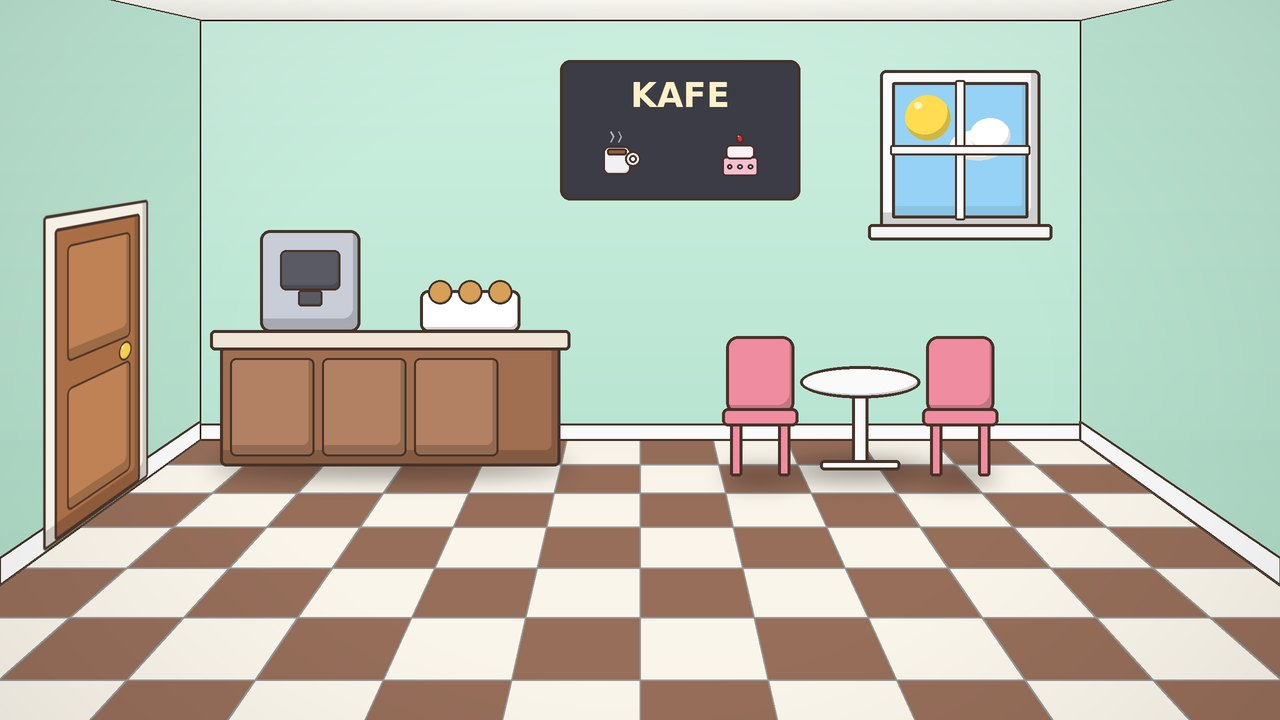
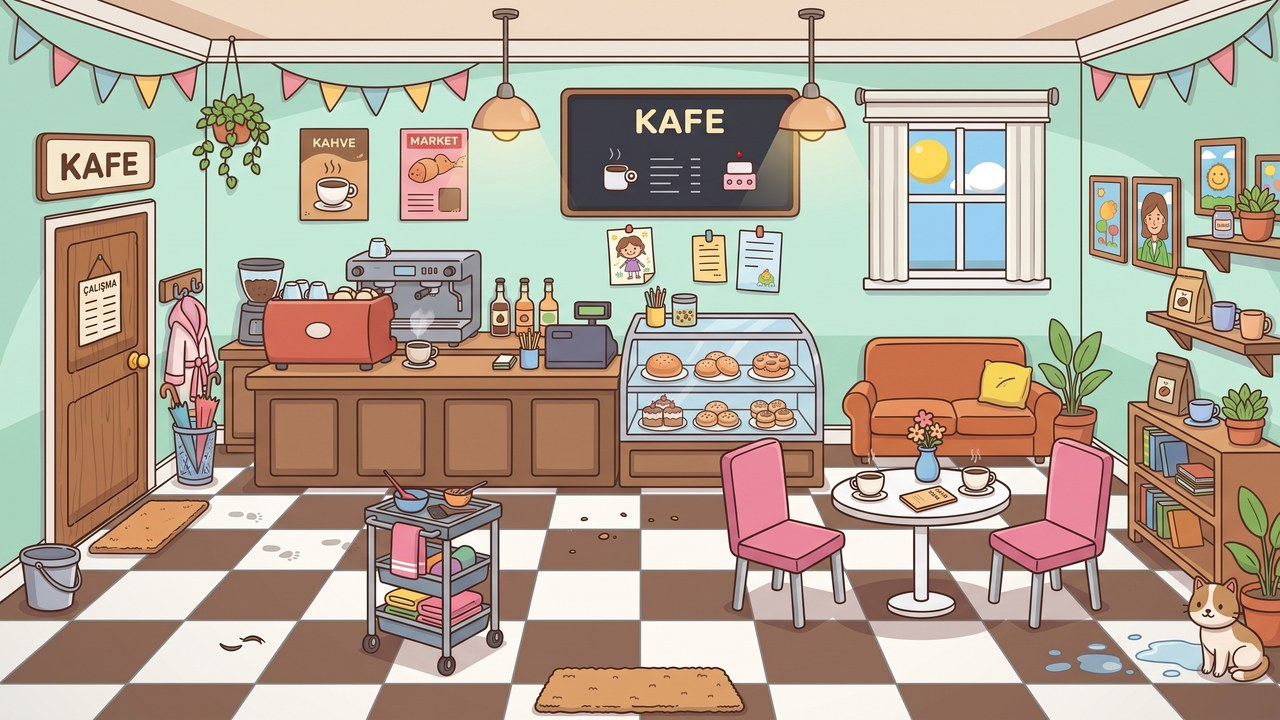
Kafe: yeni resim, kahve makinesi, pasta vitrini, yuvarlak masa, iki sandalye ve kanepe
Claude-Session: https://claude.ai/code/session_01FSkVF6b9FMUcpnurV8yuFZ

diff --git a/js/veri.js b/js/veri.js
@@ -434,17 +434,31 @@ window.OYUN_VERI = {
     },
     kafe: {
       ad: "Kafe", simge: "kafe",
-      resim: "cizimler/mekan/kafe.jpg", zemin: ZEMIN, giris: GIRIS_SOL,
-      kapilar: [{ ...KAPI_SOL, hedef: "dunya", yer: "kafe" }],
+      resim: "cizimler/mekan/kafe.jpg",
+      zemin: { ust: 490, alt: 705, sol: 30, sag: 1250, ufuk: { x: 640, y: 190 }, arka: { sol: 205, sag: 1090, y: 470 } },
+      giris: { x: 240, y: 600 },
+      kapilar: [{ x: 45, y: 200, w: 112, h: 345, hedef: "dunya", yer: "kafe" }],
       calisan: {
-        meslek: "garson", x: 480, y: 500,
+        meslek: "garson", x: 610, y: 600,
         selam: "Hoş geldiniz! Ne içersiniz? Çay, kahve ya da sıcak çikolata?",
         sozler: ["Kurabiyelerimiz fırından yeni çıktı.", "Şekerli mi olsun, şekersiz mi?", "Siparişiniz hemen geliyor.", "Buyurun, masanız hazır.", "Afiyet olsun!"],
       },
       noktalar: [
-        { tur: "musluk", x: 260, y: 230, w: 100, h: 100, su: { x: 310, y: 306, boy: 22, renk: [130, 80, 45] } },
-        { tur: "raf", raflar: [{ sablon: "kupa", x: 395, y: 332 }, { sablon: "kurabiye", x: 545, y: 332 }] },
-        sandalye(760, 476), sandalye(960, 476),
+        // Kahve makinesi: dokununca kahve akar.
+        { tur: "musluk", x: 345, y: 250, w: 140, h: 95, su: { x: 420, y: 333, boy: 18, renk: [130, 80, 45] } },
+        { tur: "tezgah", x: 250, y: 330, w: 370, h: 60, ust: 368 },
+        // Pasta vitrini ve sağdaki raflar. Alınanın yerine yenisi gelir.
+        {
+          tur: "raf", raflar: [
+            { sablon: "ekmek", x: 665, y: 378 }, { sablon: "kurabiye", x: 718, y: 378 }, { sablon: "kurabiye", x: 770, y: 378 },
+            { sablon: "pasta", x: 665, y: 427 }, { sablon: "kurabiye", x: 718, y: 427 }, { sablon: "kurabiye", x: 770, y: 427 },
+            { sablon: "kupa", x: 1222, y: 330 }, { sablon: "kupa", x: 1200, y: 424 },
+          ],
+        },
+        // Yuvarlak masa, iki pembe sandalye ve kanepe.
+        { tur: "tezgah", x: 835, y: 455, w: 175, h: 50, ust: 490 },
+        sandalye(785, 605), sandalye(1040, 600),
+        { tur: "otur", x: 845, y: 335, w: 215, h: 115, oturma: { x: 950, y: 455 } },
       ],
     },
     market: {
